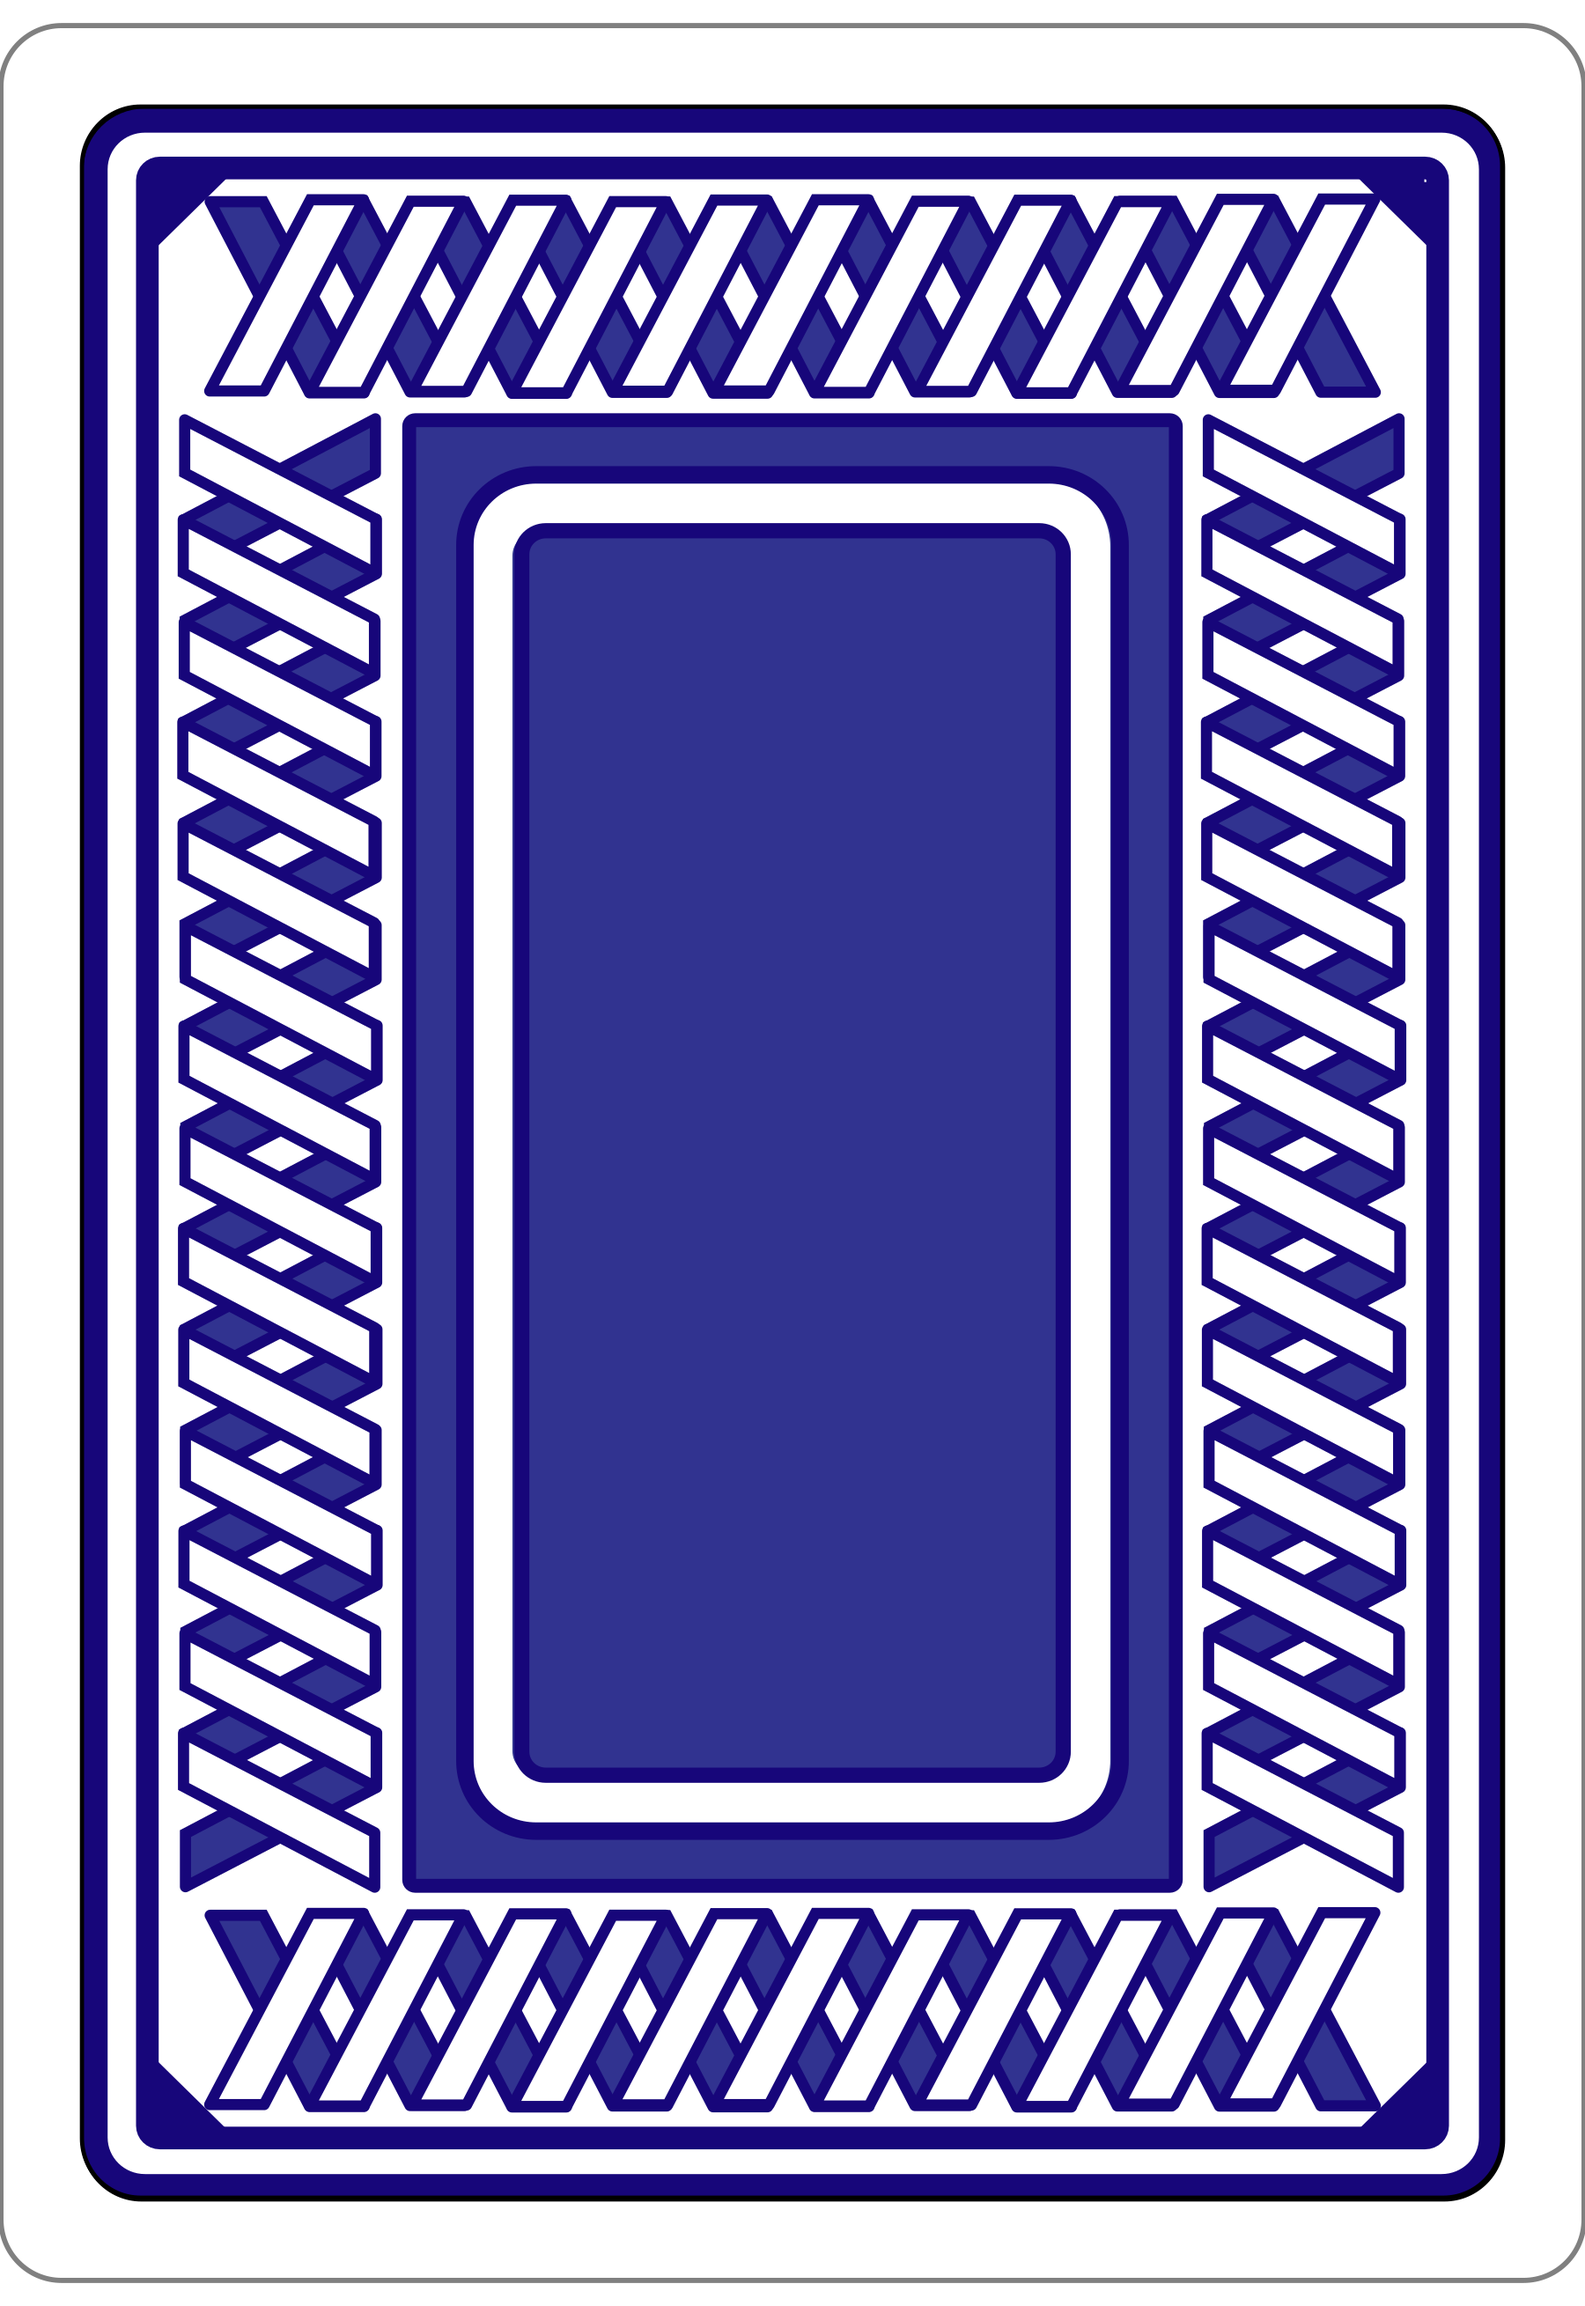
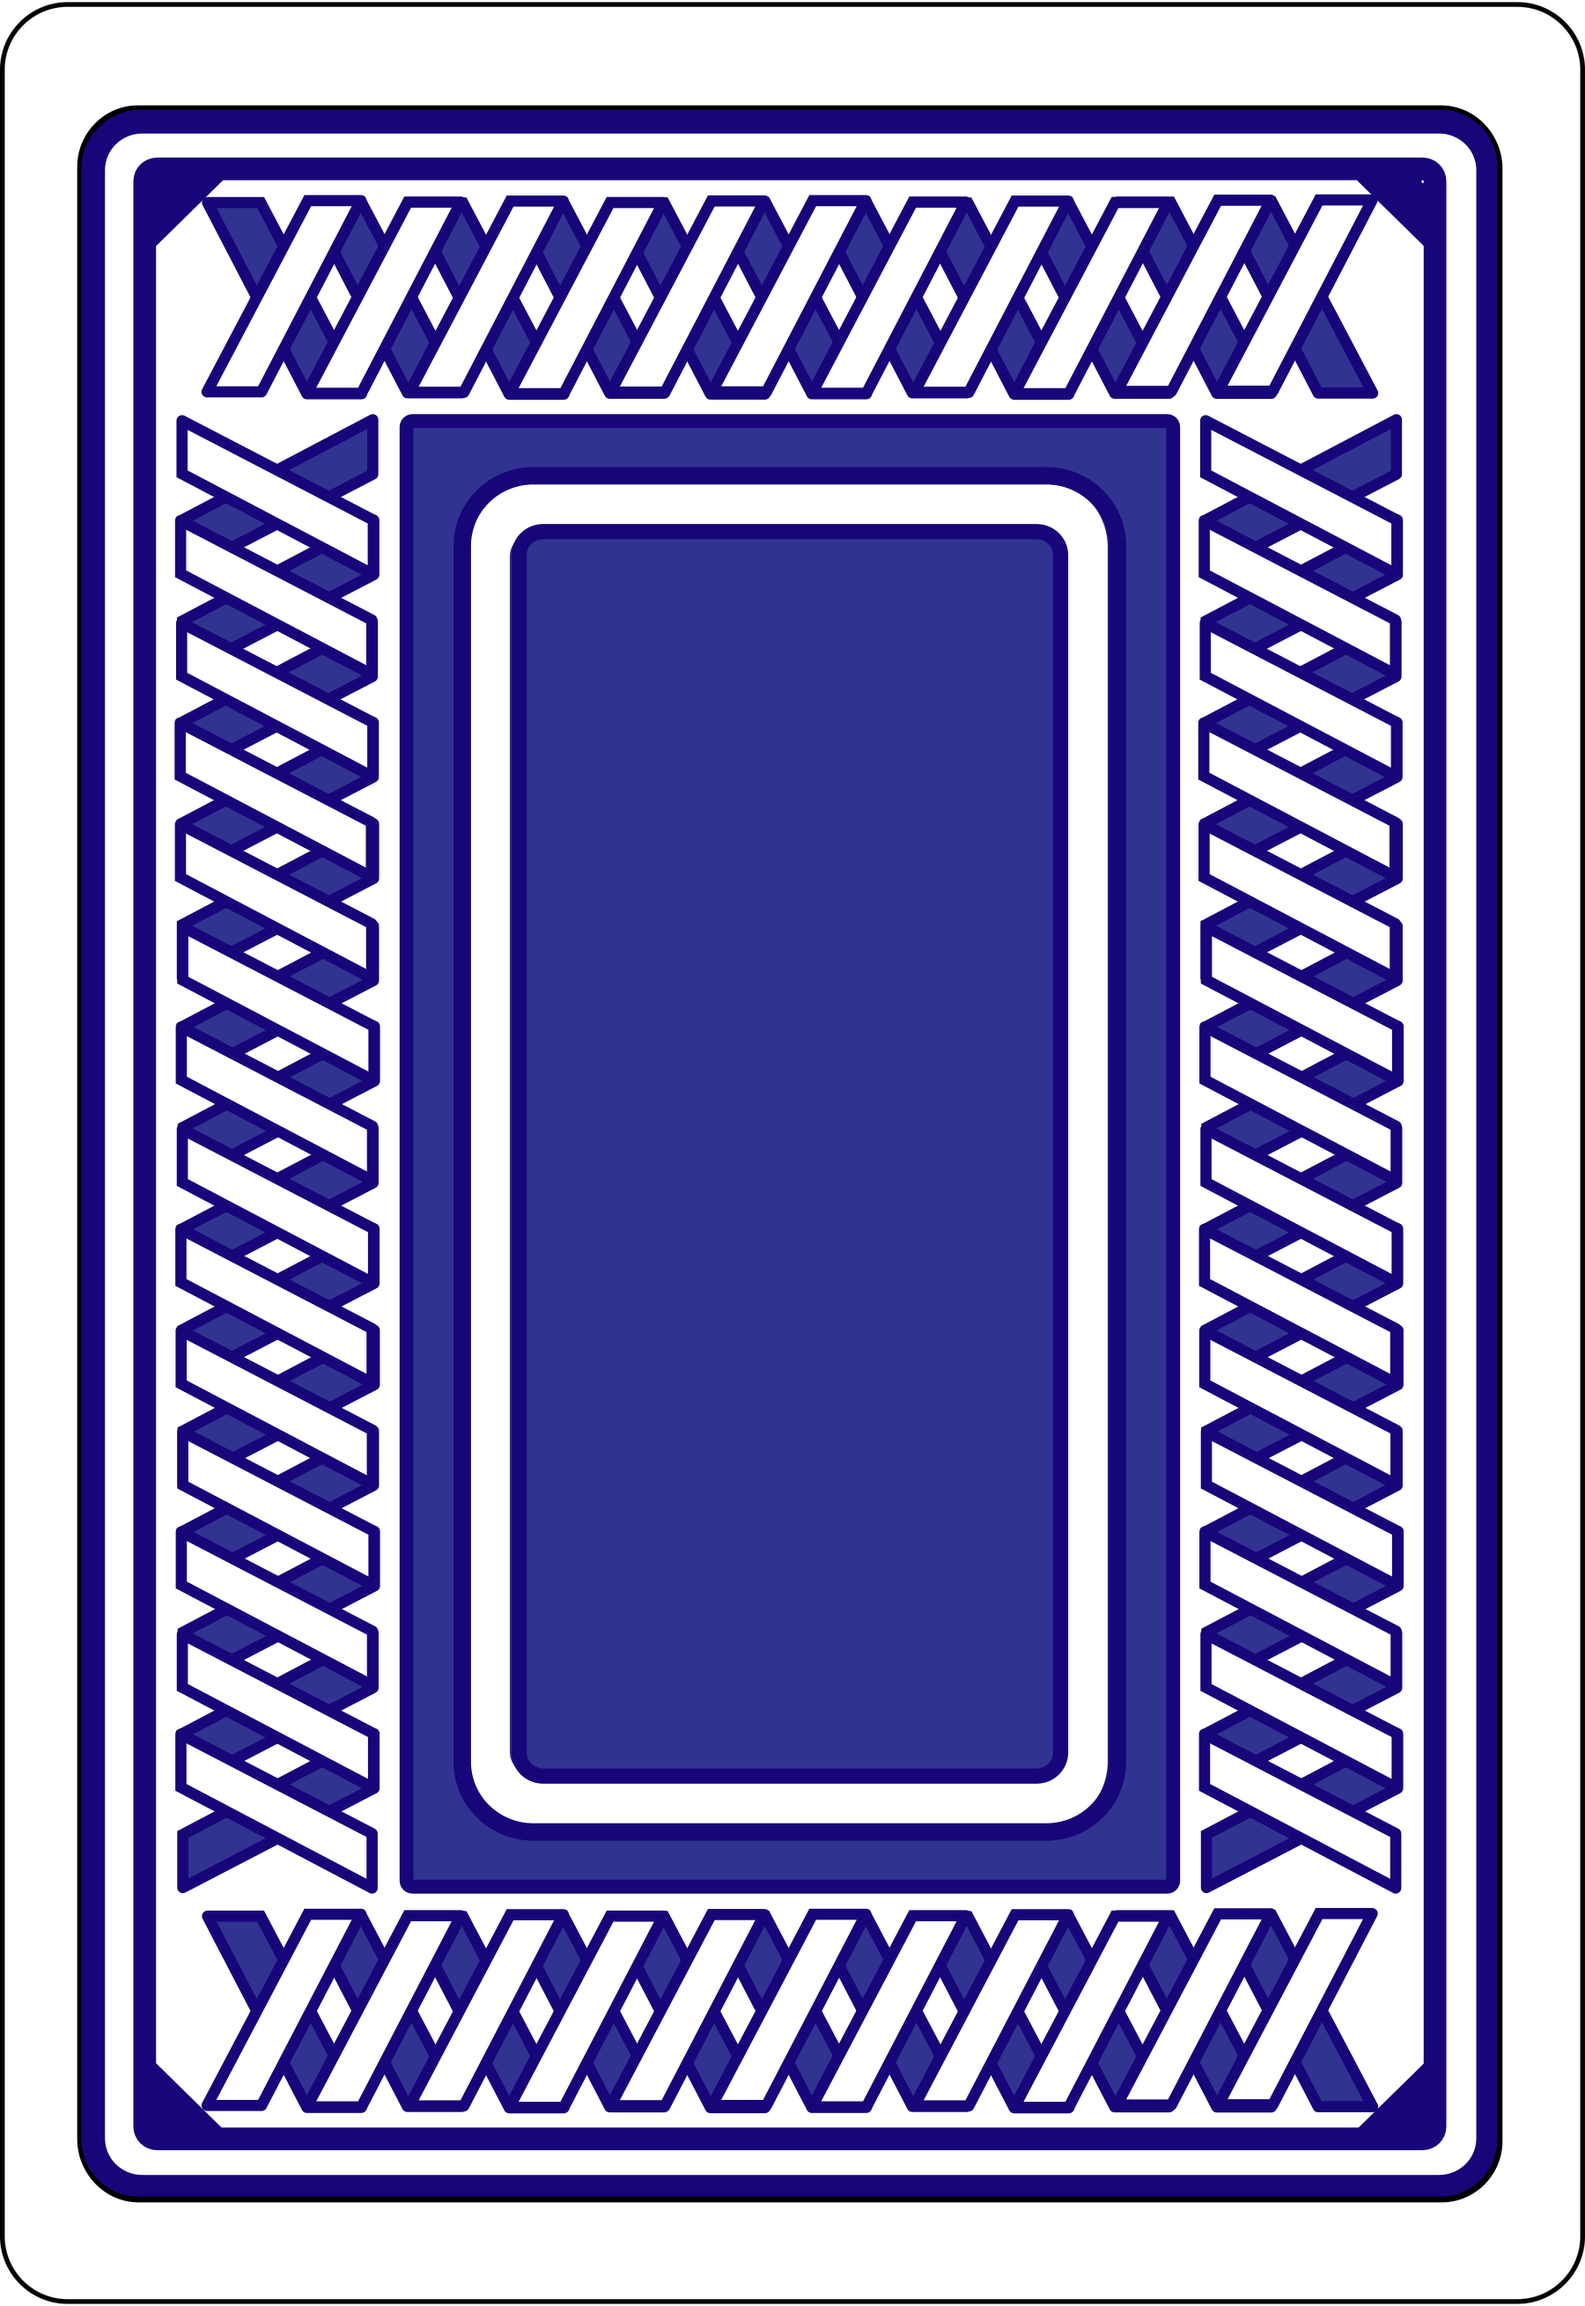
implemented a stack of two cards to prepare for drag animation

Changed region(s): [[0.0, 0.0, 1.0, 1.0], [0.8089, 0.6186, 0.84, 0.6495], [0.8089, 0.3093, 0.84, 0.3402]]

diff --git a/lib/main.dart b/lib/main.dart
@@ -138,7 +138,12 @@ class _MyHomePageState extends State<MyHomePage> {
                           else _card = _deck.pop();
                         });
                       },
-                      child: Image.asset('assets/cards/' + (_card == null ? 'back.png' : _card!.png_name)),
+                      child: Stack(
+                        children: <Widget>[
+                          Image.asset('assets/cards/' + (_deck.pile == 0 ? 'back.png' : _deck.top.png_name)),
+                          Image.asset('assets/cards/' + (_card == null ? 'back.png' : _card!.png_name)),
+                        ],
+                      ),
                     ),
                   ),
                   const Spacer(),
